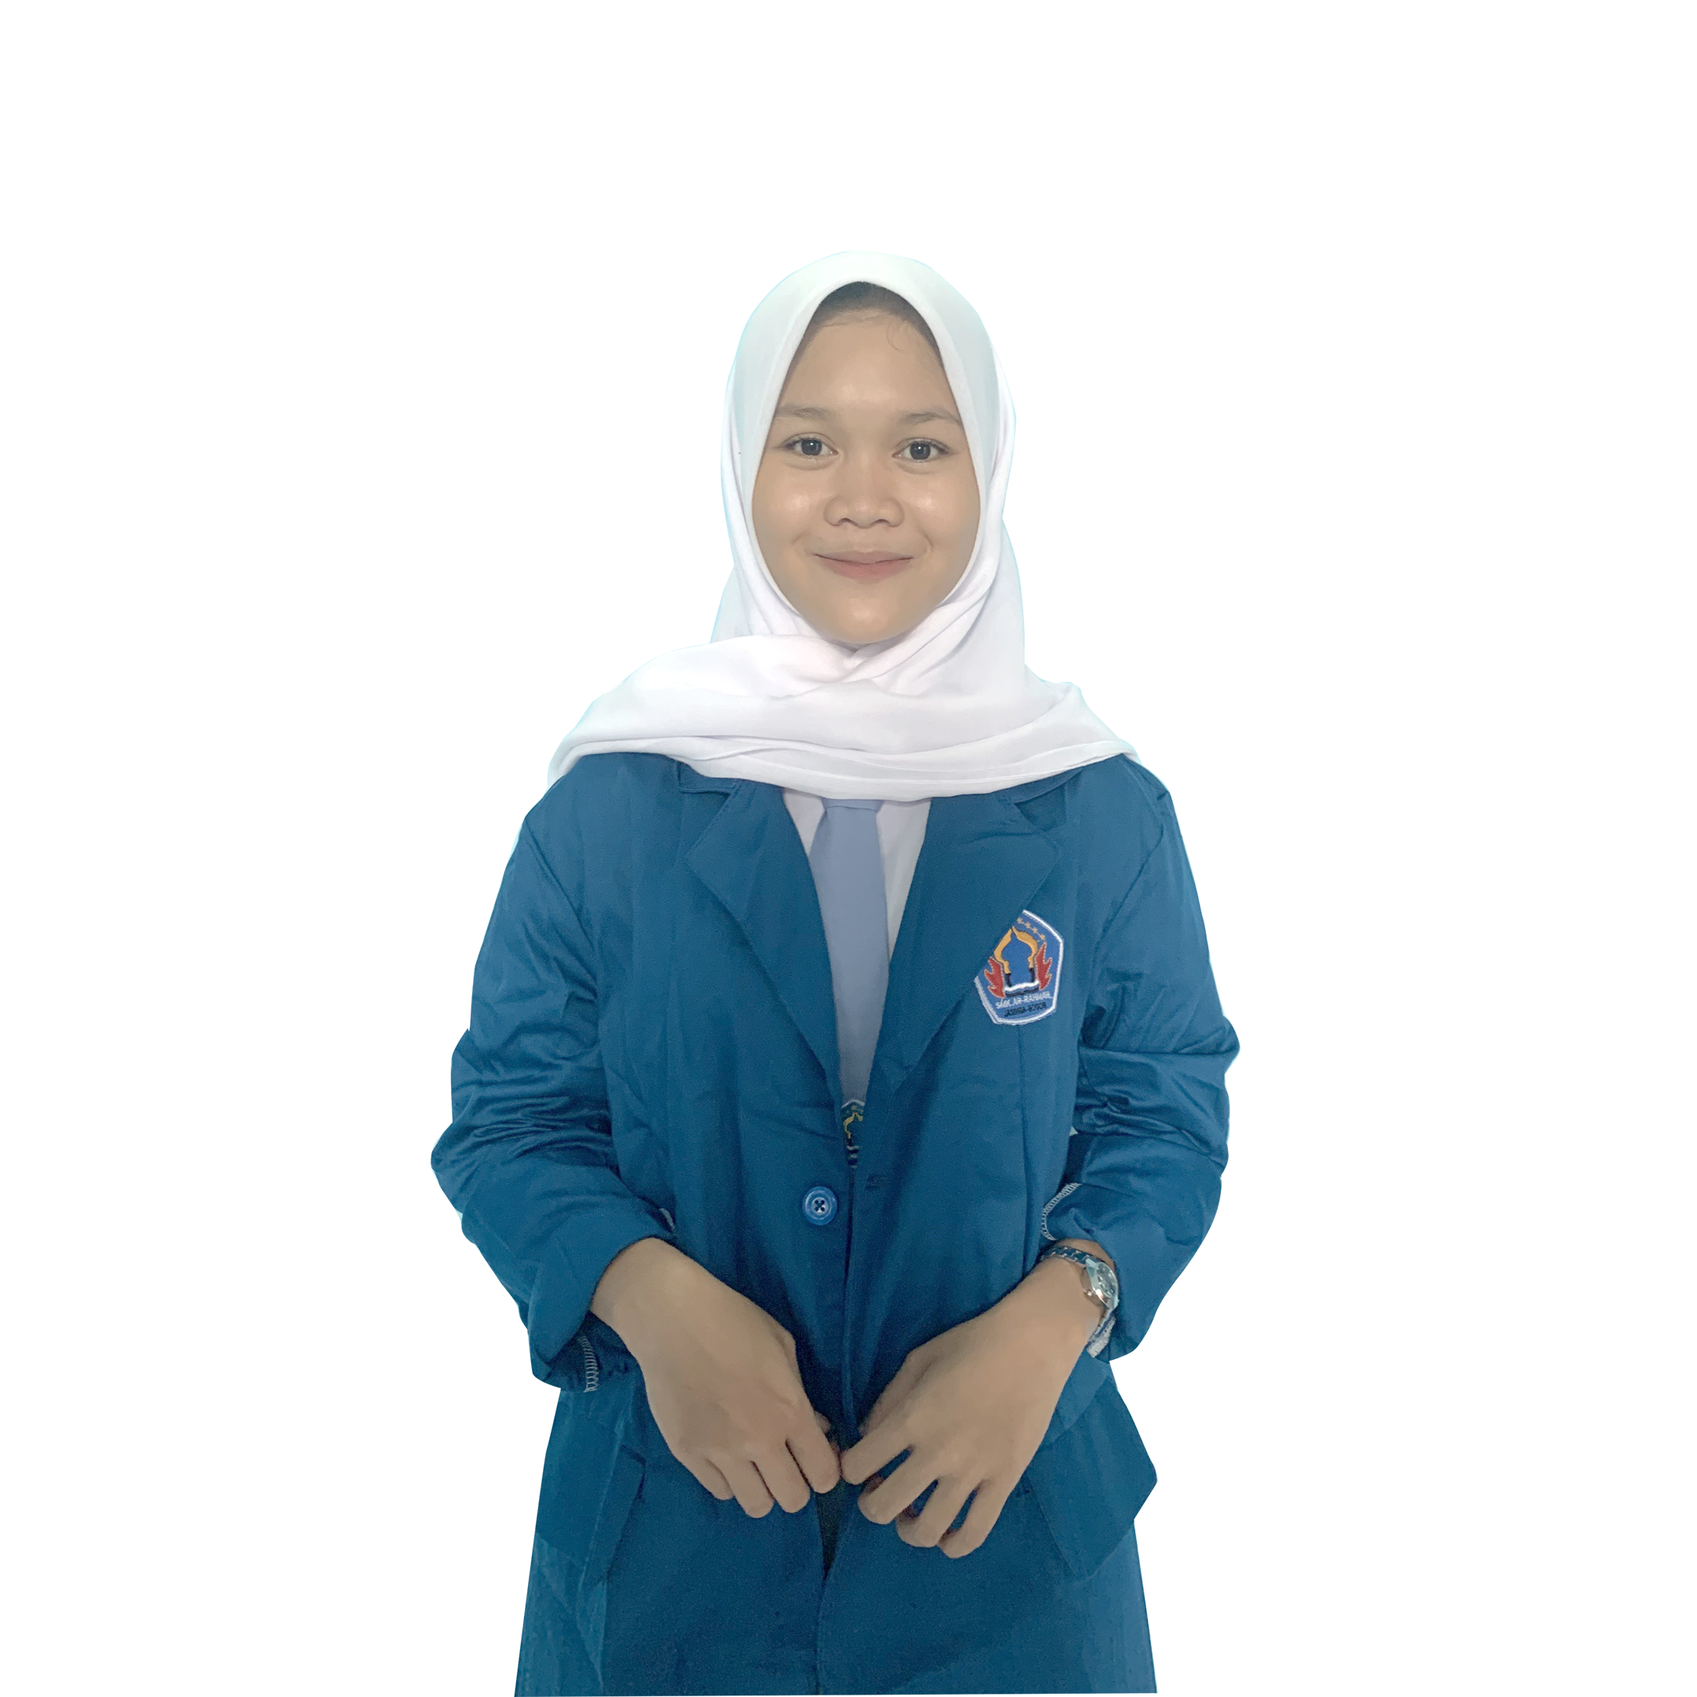
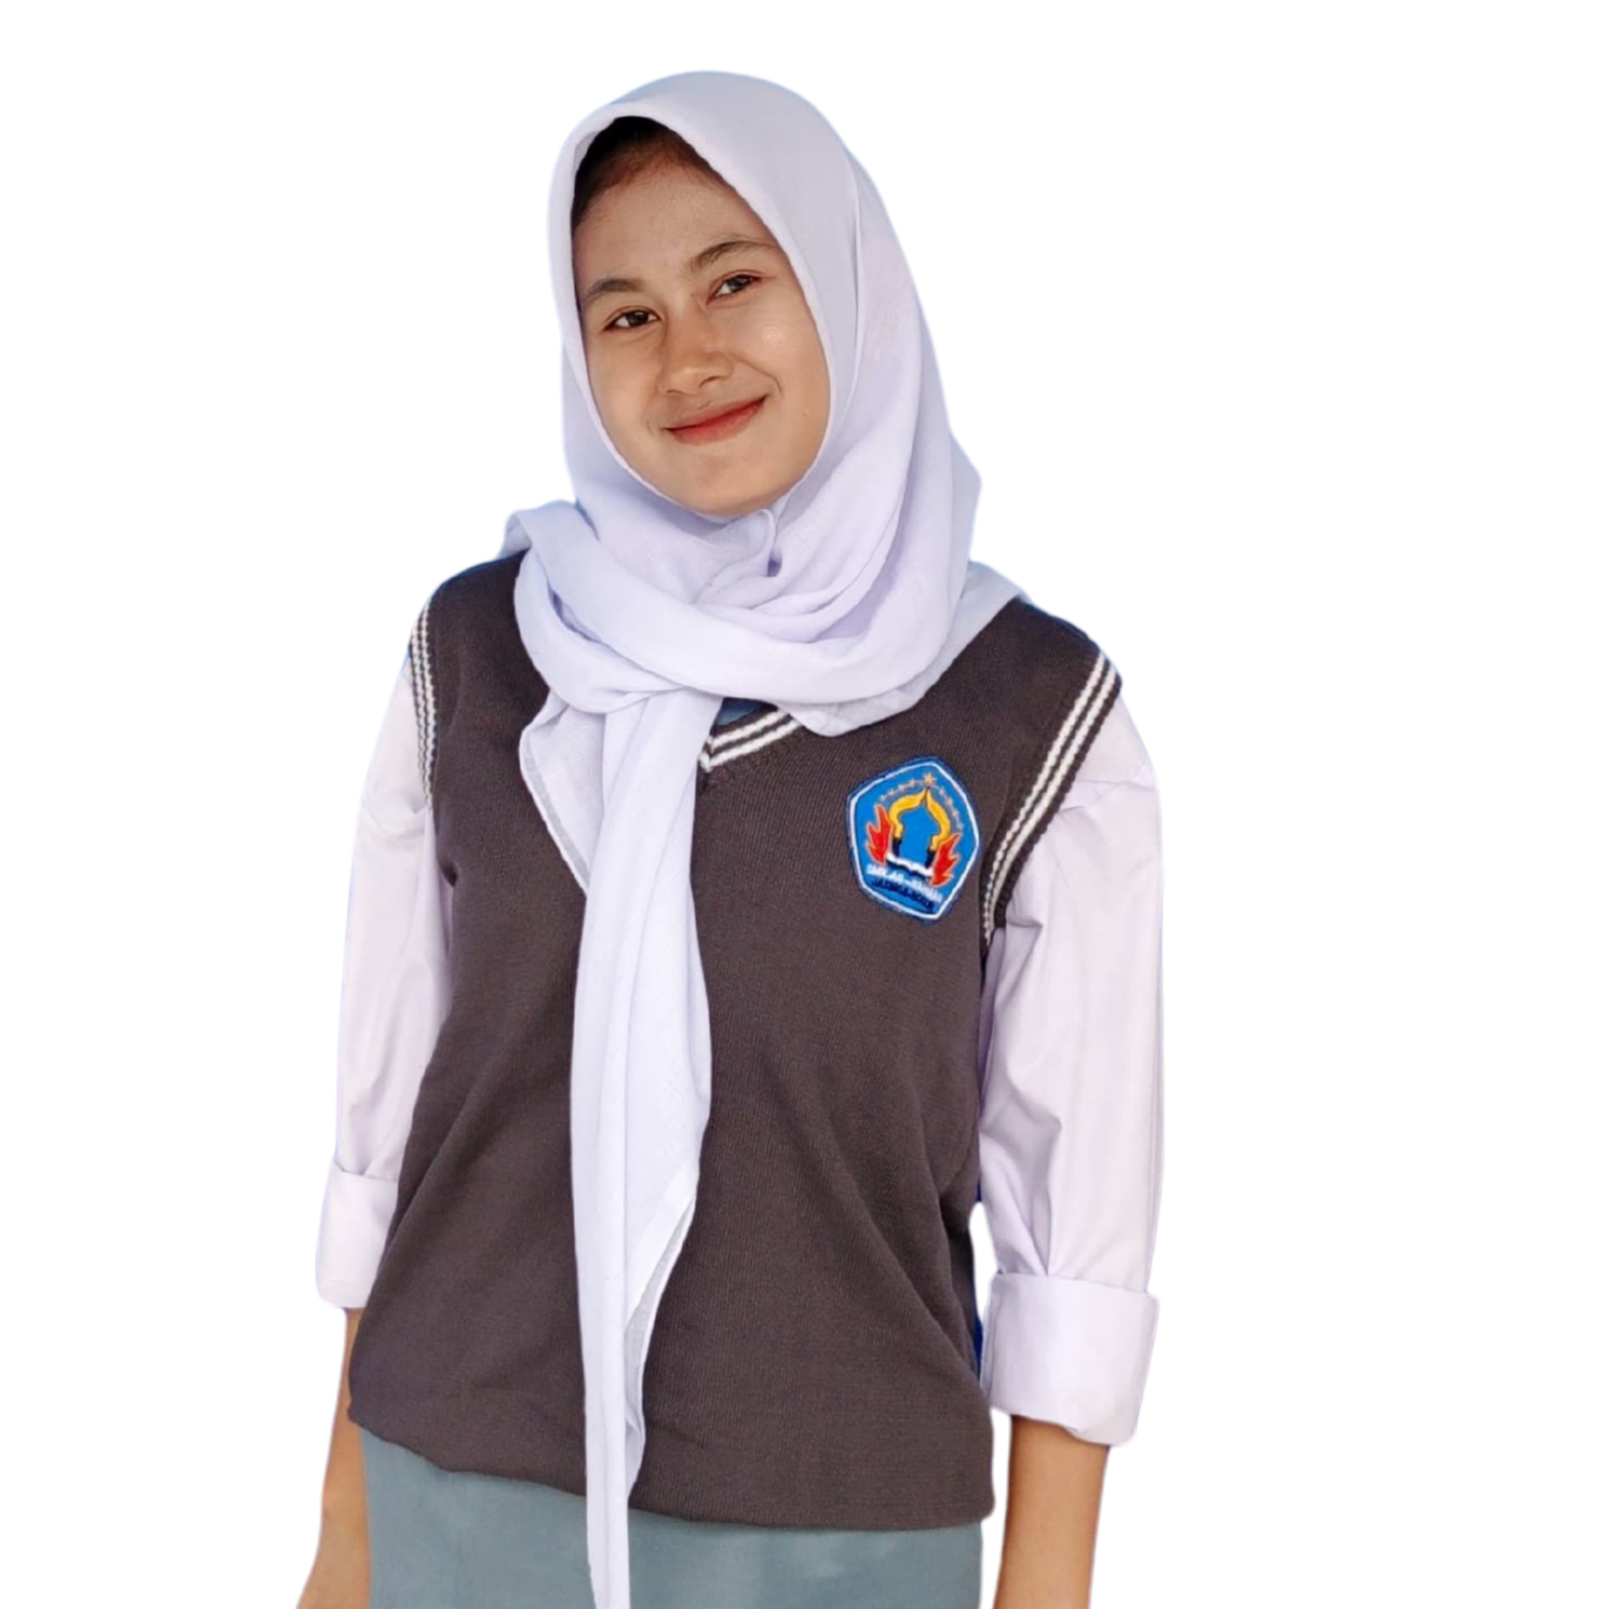
ppdb

diff --git a/index.html b/index.html
@@ -25,7 +25,7 @@
       <main>
         <div class="jumboTron">
         <h4>YAYASAN PENDIDIKAN ISLAM AR-RAHMAH</span></h4>
-        <h1>PPDB 2025-2026</h1>
+        <h1>PPDB 2026-2027</h1>
         <p>SMK Ar-Rahmah & MTsS Nurul Huda Jasinga</p>
       </div>
 
@@ -74,7 +74,7 @@
             <div class="row">
               <div class="col-8 text-end">
                 <h3>SMK Ar-Rahmah</h3>
-                <p>SMKAR-RAHMAH BOGOR memiliki 2 jurusan program keahlian yaitu : (1)Perbankan Syariah (2) TKJ. </p>
+                <p>SMKAR-RAHMAH BOGOR memiliki 2 jurusan program keahlian yaitu : (1)Kutansi Keuangan Lembaga : Perbankan Syariah (2) TKJ. </p>
                 <p>
                   Terdapat Banyak Beasiswa <br />
                   Kepala Sekolah : <br />
@@ -145,7 +145,7 @@
               referrerpolicy="no-referrer-when-downgrade"
             ></iframe>
 
-            <a href="https://maps.app.goo.gl/PCL485Cn3KJsyzXcA" target="_blank" class="btn btn-light btn-sm my-3">Klik untuk membuka peta</a>
+            <a href="https://maps.app.goo.gl/jx3pTCdSo6kYu3P66" target="_blank" class="btn btn-light btn-sm my-3">Klik untuk membuka peta</a>
             <p class="description">Untuk pendaftaran bisa langsung daang ke gedung YPI Ar-Rahmah sesuai peta tertera. dan pastikan tidak salah alamat.</p>
           </div>
         </div>
@@ -162,11 +162,11 @@
                   </div>
                   <div class="col-md-6">
                     <i class="bi bi-calendar3 d-block"></i>
-                    <span>Sampai dengan 15 Juli 2025</span>
+                    <span>Sampai dengan 15 Juli 2026</span>
                   </div>
                 </div>
               </div>
-              <div class="card-footer">Gratis pendaftaran, seragam Putih Abu + ATK untuk sekolah</div>
+              <div class="card-footer">Gratis pendaftaran, gratis seragam Putih Abu + ATK untuk sekolah</div>
             </div>
           </div>
           <div class="col-md-5 col-10">
@@ -180,7 +180,7 @@
                   </div>
                   <div class="col-md-6">
                     <i class="bi bi-calendar3 d-block"></i>
-                    <span>Sampai dengan 15 Juli 2025</span>
+                    <span>Sampai dengan 15 Juli 2026</span>
                   </div>
                 </div>
               </div>
@@ -202,7 +202,7 @@
                 </div>
                 <div class="col-md-6">
                   <i class="bi bi-calendar3 d-block"></i>
-                  <span>Sampai dengan 15 Juli 2025</span>
+                  <span>Sampai dengan 15 Juli 2026</span>
                 </div>
               </div>
             </div>
@@ -275,7 +275,7 @@
                   </div>
                 </div>
               </li>
-              <li class="timeline-inverted">
+              <li>
                 <div class="timeline-image" style="background-image: url(OC.jpeg)"></div>
                 <div class="timeline-panel">
                   <div class="timeline-heading">
@@ -288,7 +288,7 @@
                 </div>
               </li>
               <li class="timeline-inverted">
-                <div class="timeline-image" style="background-image: url(https://picsum.photos/300/300)"></div>
+                <div class="timeline-image" style="background-image: url(BAZ.png)"></div>
                 <div class="timeline-panel">
                   <div class="timeline-heading">
                     <h3>Kegiatan Bazar dan P5</h3>
@@ -299,7 +299,7 @@
                   </div>
                 </div>
               </li>
-              <li class="timeline-inverted">
+              <li>
                 <div class="timeline-image" style="background-image: url(putsal.jpg)"></div>
                 <div class="timeline-panel">
                   <div class="timeline-heading">
@@ -341,48 +341,63 @@
 
         <div class="row row-cols-lg-4 row-cols-sm-2 row-cols-1 justify-content-center">
           <div class="col mt-3">
-            <a href="1.jpeg" data-toggle="lightbox" data-caption="Ari dan Ade 1" data-gallery="mygallery">
-              <img src="1.jpeg" alt="Ari dan Ade 1" class="img-fluid w-100 rounded" />
+            <a href="1.jpeg" data-toggle="lightbox" data-caption="SMK 195" data-gallery="mygallery">
+              <img src="1.jpeg" alt="SMK 195" class="img-fluid w-100 rounded" />
             </a>
           </div>
           <div class="col mt-3">
-            <a href="2.jpeg" data-toggle="lightbox" data-caption="Ari dan Ade 2" data-gallery="mygallery">
-              <img src="2.jpeg" alt="Ari dan Ade 2" class="img-fluid w-100 rounded" />
+            <a href="2.jpeg" data-toggle="lightbox" data-caption="SMK 195 2" data-gallery="mygallery">
+              <img src="2.jpeg" alt="SMK 195 2" class="img-fluid w-100 rounded" />
             </a>
           </div>
           <div class="col mt-3">
-            <a href="3.jpeg" data-toggle="lightbox" data-caption="Ari dan Ade 3" data-gallery="mygallery">
-              <img src="3.jpeg" alt="Ari dan Ade 3" class="img-fluid w-100 rounded" />
+            <a href="3.jpeg" data-toggle="lightbox" data-caption="SMK 195 3" data-gallery="mygallery">
+              <img src="3.jpeg" alt="SMK 195 3" class="img-fluid w-100 rounded" />
             </a>
           </div>
           <div class="col mt-3">
-            <a href="4.jpeg" data-toggle="lightbox" data-caption="Ari dan Ade 4" data-gallery="mygallery">
-              <img src="4.jpeg" alt="Ari dan Ade 4" class="img-fluid w-100 rounded" />
+            <a href="4.jpeg" data-toggle="lightbox" data-caption="SMK 195 4" data-gallery="mygallery">
+              <img src="4.jpeg" alt="SMK 195 4" class="img-fluid w-100 rounded" />
             </a>
           </div>
           <div class="col mt-3">
-            <a href="5.png" data-toggle="lightbox" data-caption="Ari dan Ade 5" data-gallery="mygallery">
-              <img src="img/5.png" alt="Ari dan Ade 5" class="img-fluid w-100 rounded" />
+            <a href="5.png" data-toggle="lightbox" data-caption="SMK 195 5" data-gallery="mygallery">
+              <img src="5.png" alt="SMK 195 5" class="img-fluid w-100 rounded" />
             </a>
           </div>
           <div class="col mt-3">
-            <a href="bogor.jpeg" data-toggle="lightbox" data-caption="Ari dan Ade 5" data-gallery="mygallery">
-              <img src="bogor.jpeg" alt="Ari dan Ade 5" class="img-fluid w-100 rounded" />
+            <a href="bogor.jpeg" data-toggle="lightbox" data-caption="SMK 195 5" data-gallery="mygallery">
+              <img src="bogor.jpeg" alt="SMK 195 5" class="img-fluid w-100 rounded" />
             </a>
           </div>
           <div class="col mt-3">
-            <a href="bogor.jpeg" data-toggle="lightbox" data-caption="Ari dan Ade 5" data-gallery="mygallery">
-              <img src="juara.jpg" alt="Ari dan Ade 5" class="img-fluid w-100 rounded" />
+            <a href="juara.jpg" data-toggle="lightbox" data-caption="SMK 195 5" data-gallery="mygallery">
+              <img src="juara.jpg" alt="SMK 195 5" class="img-fluid w-100 rounded" />
             </a>
           </div>
           <div class="col mt-3">
-            <a href="tm.jpeg" data-toggle="lightbox" data-caption="Ari dan Ade 5" data-gallery="mygallery">
-              <img src="tm.jpeg" alt="Ari dan Ade 5" class="img-fluid w-100 rounded" />
+            <a href="bm.jpeg" data-toggle="lightbox" data-caption="SMK 195 5" data-gallery="mygallery">
+              <img src="bm.jpeg" alt="SMK 195 5" class="img-fluid w-100 rounded" />
             </a>
           </div>
           <div class="col mt-3">
-            <a href="bm.jpeg" data-toggle="lightbox" data-caption="Ari dan Ade 6" data-gallery="mygallery">
-              <img src="bm.jpeg" alt="Ari dan Ade 6" class="img-fluid w-100 rounded" />
+            <a href="UKK.jpeg" data-toggle="lightbox" data-caption="UKK" data-gallery="mygallery">
+              <img src="UKK.jpeg" alt="SMK 195 6" class="img-fluid w-100 rounded" />
+            </a>
+          </div>
+          <div class="col mt-3">
+            <a href="MABIT2.png" data-toggle="lightbox" data-caption="UKK" data-gallery="mygallery">
+              <img src="MABIT2.png" alt="SMK 195 6" class="img-fluid w-100 rounded" />
+            </a>
+          </div>
+          <div class="col mt-3">
+            <a href="MTS.jpg" data-toggle="lightbox" data-caption="UKK" data-gallery="mygallery">
+              <img src="MTS.jpg" alt="SMK 195 6" class="img-fluid w-100 rounded" />
+            </a>
+          </div>
+          <div class="col mt-3">
+            <a href="solat.jpeg" data-toggle="lightbox" data-caption="UKK" data-gallery="mygallery">
+              <img src="solat.jpeg" alt="SMK 195 6" class="img-fluid w-100 rounded" />
             </a>
           </div>
         </div>
@@ -390,22 +405,142 @@
     </section>
 
 
-    <div class="container-fluid">
-    <div class="descripsi">
-    <h4>VIDEO TENTANG KAMI</h4>
-    <p>Dalam mensukseskan lulusan yang kometitif dalam dunia kerja, kami hadir untuk menjadi solusi pendidikan di mayarakat,dengan pendidikan yang adaftable yang menyesuaikan dengan kondisi zaman dan teknoligi serta upgrading materi serta pelatihan terhadap siswa agar menjadi lulusan yang handal dan kompetitif. </p>
-    <p><a class="btn btn-md btn-primary" href="https://www.youtube.com/channel/UC9z3WtA3Zs62cssJvDfNzYQ/featured" target="_blank" >Selengkapnya</a></p>
-    </div>
-    </div>
+    <Section>
+    <div class="container">
+        <div class="row justify-content-center">
+          <div class="col-md-8 col-10 text-center">
+            <br>
+            <span>Bagaimana Alumni Kami di Sekolah ?</span>
+            <h2>BISA KULIAH DAN KERJA !</h2>
+            <p>Berikut adalah beberapa Alumni terbaru:</p>
+          </div>
+        </div>
+        <div class="row">
+          <div class="col">
+            <ul class="timeline">
+              <li>
+                <div class="timeline-image" style="background-image: url(rapi.jpeg)"></div>
+                <div class="timeline-panel">
+                  <div class="timeline-heading">
+                    <h3>RAPI</h3>
+                    <span>UNIVERSITAS PAMULANG</span>
+                  </div>
+                  <div class="timeline-body">
+                    <p>Kuliah S1 Jurusan Teknin</p>
+                  </div>
+                </div>
+              </li>
+              <li class="timeline-inverted">
+                <div class="timeline-image" style="background-image: url(KUCUM.jpeg)"></div>
+                <div class="timeline-panel">
+                  <div class="timeline-heading">
+                    <h3>KULSUM</h3>
+                    <span>INSTITUT UMMUL QURO AL-ISLAMI BOGOR</span>
+                  </div>
+                  <div class="timeline-body">
+                    <p>Jurusan PGMI (Pemenang Beasiswa Pancakarsa Bupati Bogor)</p>
+                  </div>
+                </div>
+              </li>
+              <li>
+                <div class="timeline-image" style="background-image: url(Ai.jpeg)"></div>
+                <div class="timeline-panel">
+                  <div class="timeline-heading">
+                    <h3>AI SILVI SYA'BANI</h3>
+                    <span>UIN SULTAN MAULANA HASANUDIN BANTEN</span>
+                  </div>
+                  <div class="timeline-body">
+                    <p>S1 Jurusan Ekonomi Syari'ah UIN SMH Banten</p>
+                  </div>
+                </div>
+              </li>
+              <li class="timeline-inverted">
+                <div class="timeline-image" style="background-image: url(juju.jpeg)"></div>
+                <div class="timeline-panel">
+                  <div class="timeline-heading">
+                    <h3>JUHEDI</h3>
+                    <span>STKIP AR-RAHMANIYAH DEPOK</span>
+                  </div>
+                  <div class="timeline-body">
+                    <p>S1 Jurusan PGSD di Kampus STKIP Ar-Rahmaniyah Depok</p>
+                  </div>
+                </div>
+              </li>
+              <li>
+                <div class="timeline-image" style="background-image: url(sella.jpeg)"></div>
+                <div class="timeline-panel">
+                  <div class="timeline-heading">
+                    <h3>MARCELLA ELVARIANI E</h3>
+                    <span>UNIVERSITAS MUHAMMADIYAH BOGOR RAYA</span>
+                  </div>
+                  <div class="timeline-body">
+                    <p>S1 Jurusan PGMI</p>
+                  </div>
+                </div>
+              </li>
+              <li class="timeline-inverted">
+                <div class="timeline-image" style="background-image: url(herdi.jpeg)"></div>
+                <div class="timeline-panel">
+                  <div class="timeline-heading">
+                    <h3>HERDI</h3>
+                    <span>PT. PLN ULP JASINGA</span>
+                  </div>
+                  <div class="timeline-body">
+                    <p>Bekerja di PT. PLN Jasing</p>
+                  </div>
+                </div>
+              </li>
+              <li>
+                <div class="timeline-image" style="background-image: url(sugi.jpeg)"></div>
+                <div class="timeline-panel">
+                  <div class="timeline-heading">
+                    <h3>SUGI</h3>
+                    <span>PT. INDOMARCO PRISMATAMA</span>
+                  </div>
+                  <div class="timeline-body">
+                    <p>bekerja di Indomaret daerah jakarta</p>
+                  </div>
+                </div>
+              </li>
+              <li class="timeline-inverted">
+                <div class="timeline-image" style="background-image: url(oja.jpeg)"></div>
+                <div class="timeline-panel">
+                  <div class="timeline-heading">
+                    <h3>ROJA</h3>
+                    <span>The Magnum Ice Cream Company.</span>
+                  </div>
+                  <div class="timeline-body">
+                    <p>Bekerja di Perusahaan Ice Cream Wals</p>
+                  </div>
+                </div>
+              </li>
+              <li>
+                <div class="timeline-image" style="background-image: url(obi.jpeg)"></div>
+                <div class="timeline-panel">
+                  <div class="timeline-heading">
+                    <h3>ROBI</h3>
+                    <span>GURU ASN</span>
+                  </div>
+                  <div class="timeline-body">
+                    <p>Bertugas di SDN Koleang 01</p>
+                  </div>
+                </div>
+              </li>
+            </ul>
+          </div>
+        </div>
+      </div>
+    </Section>
     <hr>
     
     <div class="album py-5 bg-light">
       <div class="container">
+      
     
         <div class="row row-cols-1 row-cols-sm-2 row-cols-md-3 g-3">
           <div class="col">
             <div class="card shadow-sm">
-              <iframe class="bd-placeholder-img card-img-top" width="100%" height="225" src="https://www.youtube.com/embed/t2aN9c0ACVc" title="YouTube video player" allow="accelerometer; autoplay; clipboard-write; encrypted-media; gyroscope; picture-in-picture" allowfullscreen></iframe>
+              <iframe class="bd-placeholder-img card-img-top" width="100%" height="225" src="https://www.youtube.com/embed/FjYNIigEZNQ" title="SHOLAWAT SYUKRON LILLAH (Cover BY Ai Silvi Syabani)" frameborder="0" allow="accelerometer; autoplay; clipboard-write; encrypted-media; gyroscope; picture-in-picture; web-share" referrerpolicy="strict-origin-when-cross-origin" allowfullscreen></iframe>
     
               <div class="card-body">
                 <div class="d-flex justify-content-between align-items-center">
@@ -498,19 +633,7 @@
       </div>
     </div>
     <br>
-    <p onClick="muat()" class="copyryght"><a href="">Selengkapnya &raquo</a></p>
-              <script>
-                
-                      function muat() {
-                        alert('Gagal dimuat');
-                      }
-                   
-                      
-                   
-              </script>
-    <br>
     
-
     <section id="rsvp" class="rsvp">
       <div class="container">
         <div class="row justify-content-center">
@@ -559,12 +682,12 @@
         e.preventDefault(); // Menghentikan pengiriman formulir secara default
     
         // Ambil nilai dari inputan formulir
-        const nama = document.getElementById('nama').value;
-        const jumlah = document.getElementById('jumlah').value;
+        const nomor = document.getElementById('nama').value;
+        const pesan = document.getElementById('jumlah').value;
         const status = document.getElementById('status').value;
     
         // Konstruksi URL untuk mengirim pesan melalui API Telegram
-        const url = `https://api.telegram.org/bot6812714144:AAHCwoKn2croDh94SVFfWEmDz7R5eKbL34g/sendMessage?chat_id=1701307635&text=Nama: ${nama}%0A Jumlah: ${jumlah}%0A Status: ${status}`;
+        const url = `https://api.telegram.org/bot6812714144:AAHCwoKn2croDh94SVFfWEmDz7R5eKbL34g/sendMessage?chat_id=1701307635&text=Nomor: ${nomor}%0A Pesan: ${pesan}%0A Jenjang: ${status}`;
     
         // Kirim permintaan POST ke URL API Telegram
         fetch(url, { method: 'POST' })
@@ -624,7 +747,7 @@
       <div class="container">
         <div class="row">
           <div class="col text-center">
-            <small class="block">&copy; 2025 OffiicialAr-Rahmah. All Rights Reserved.</small>
+            <small class="block">&copy; 2026 OffiicialAr-Rahmah. All Rights Reserved.</small>
             <small class="block">Design by Offiicial Ar-Rahmah</a>.</small>
 
             <ul class="mt-3">
